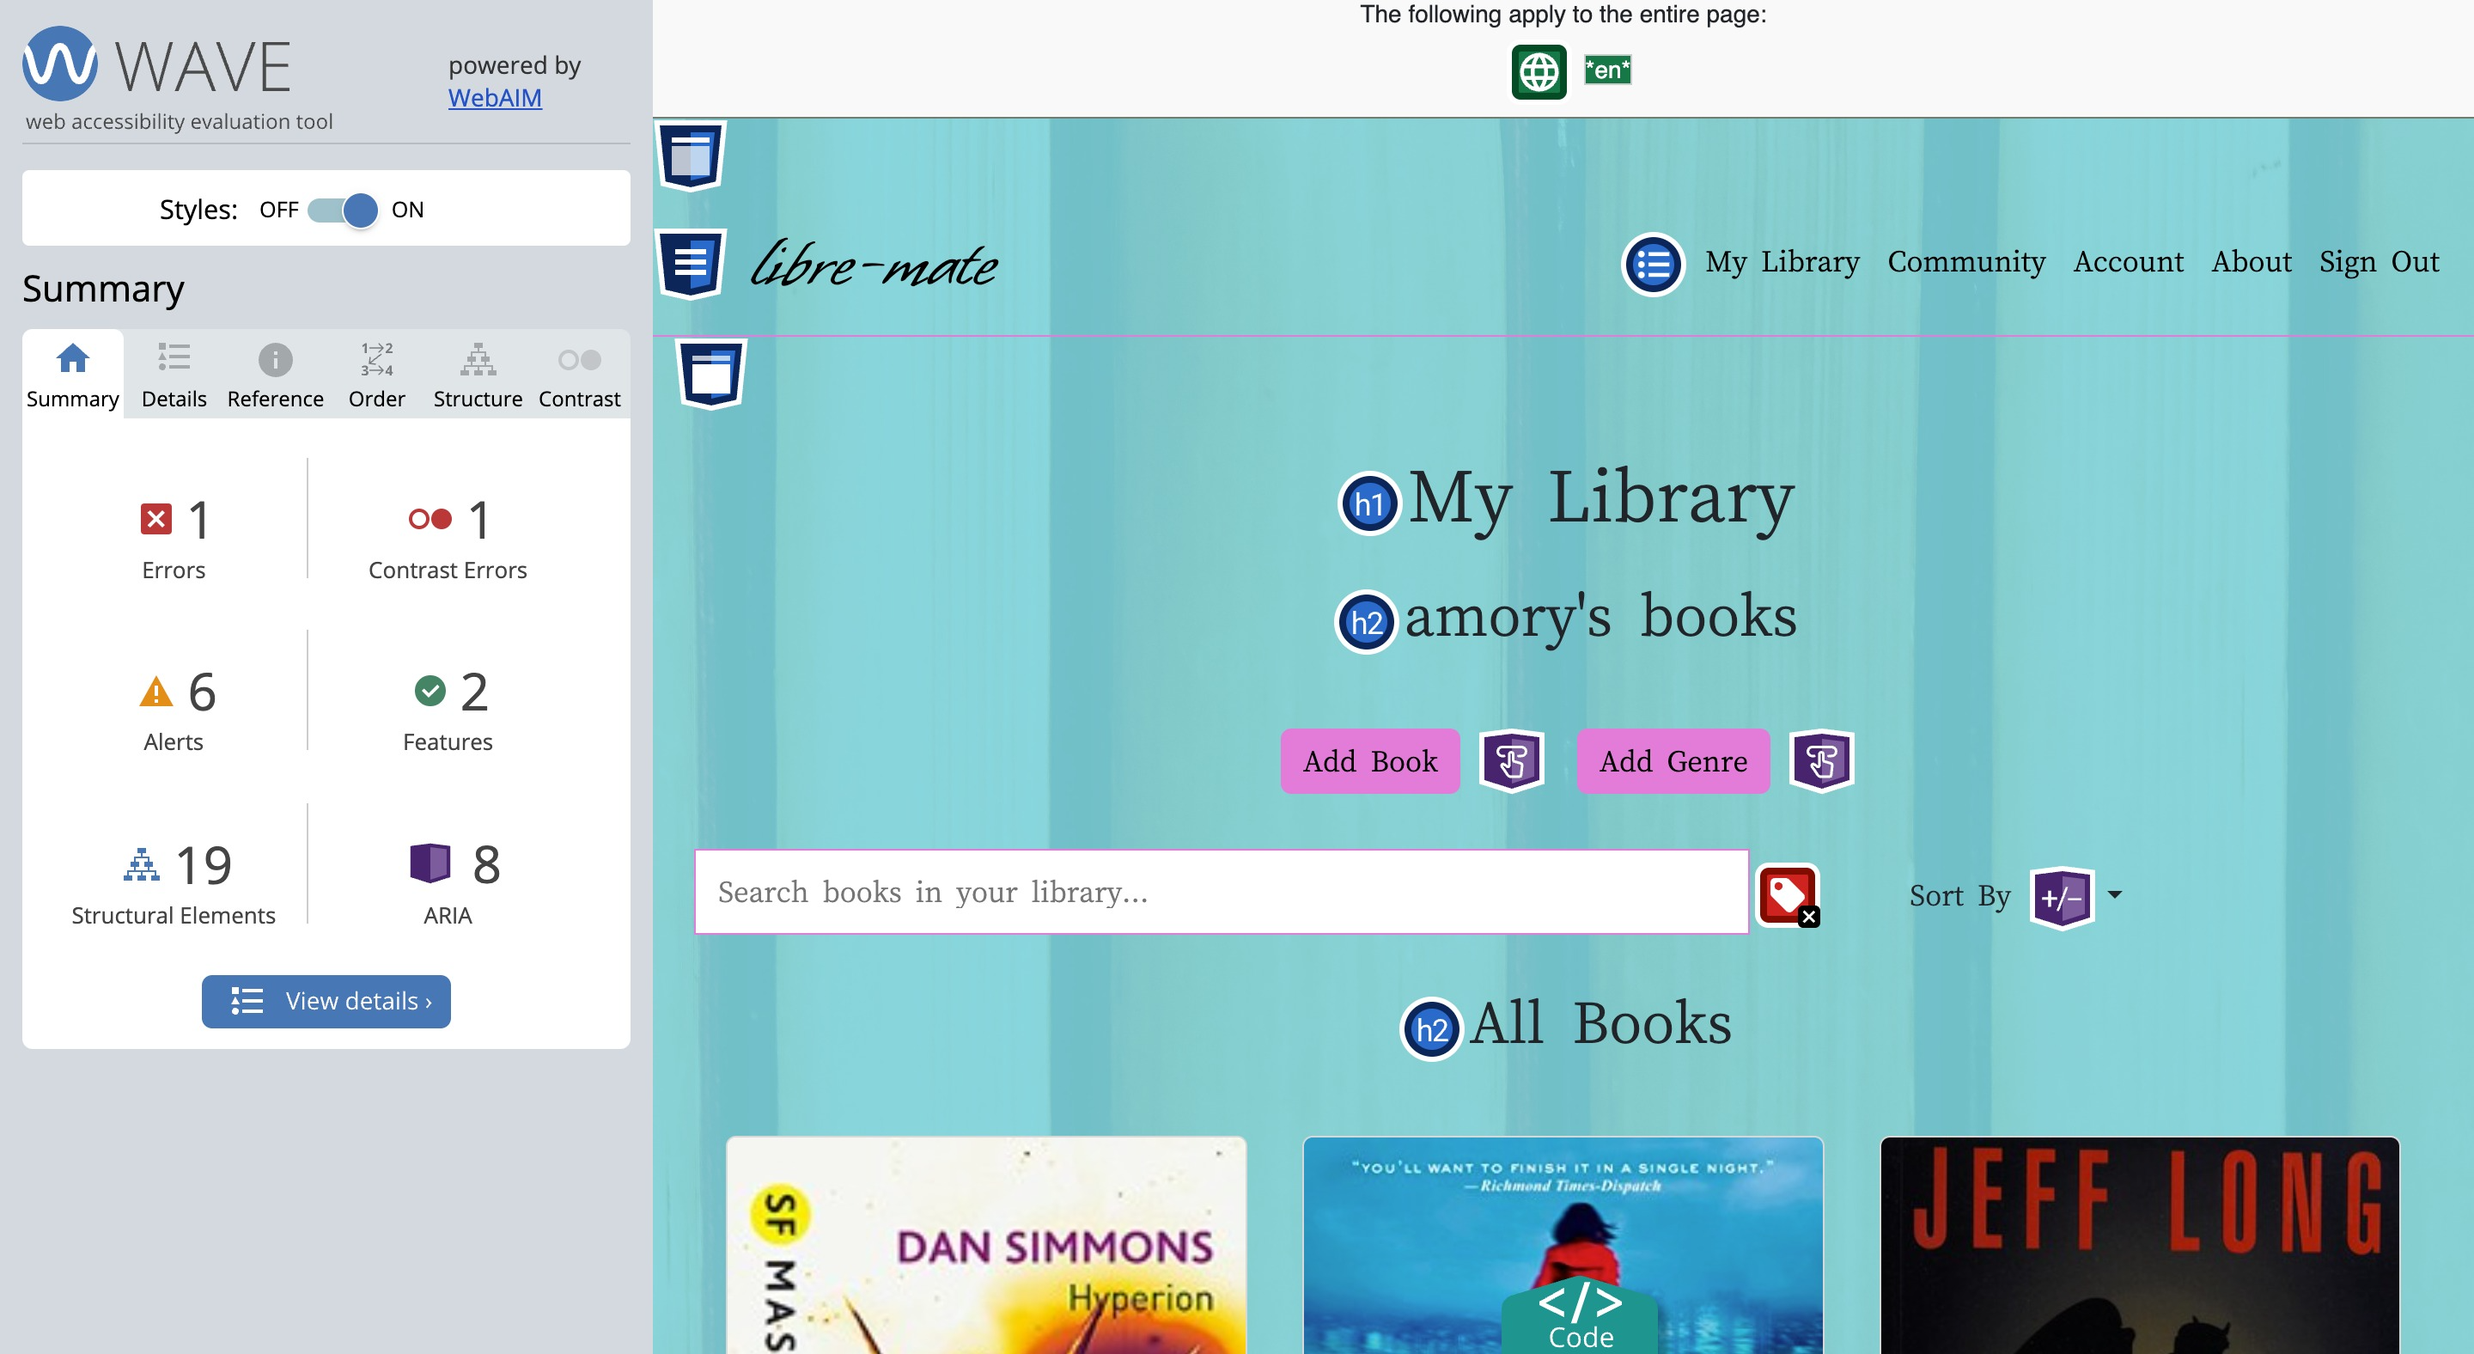
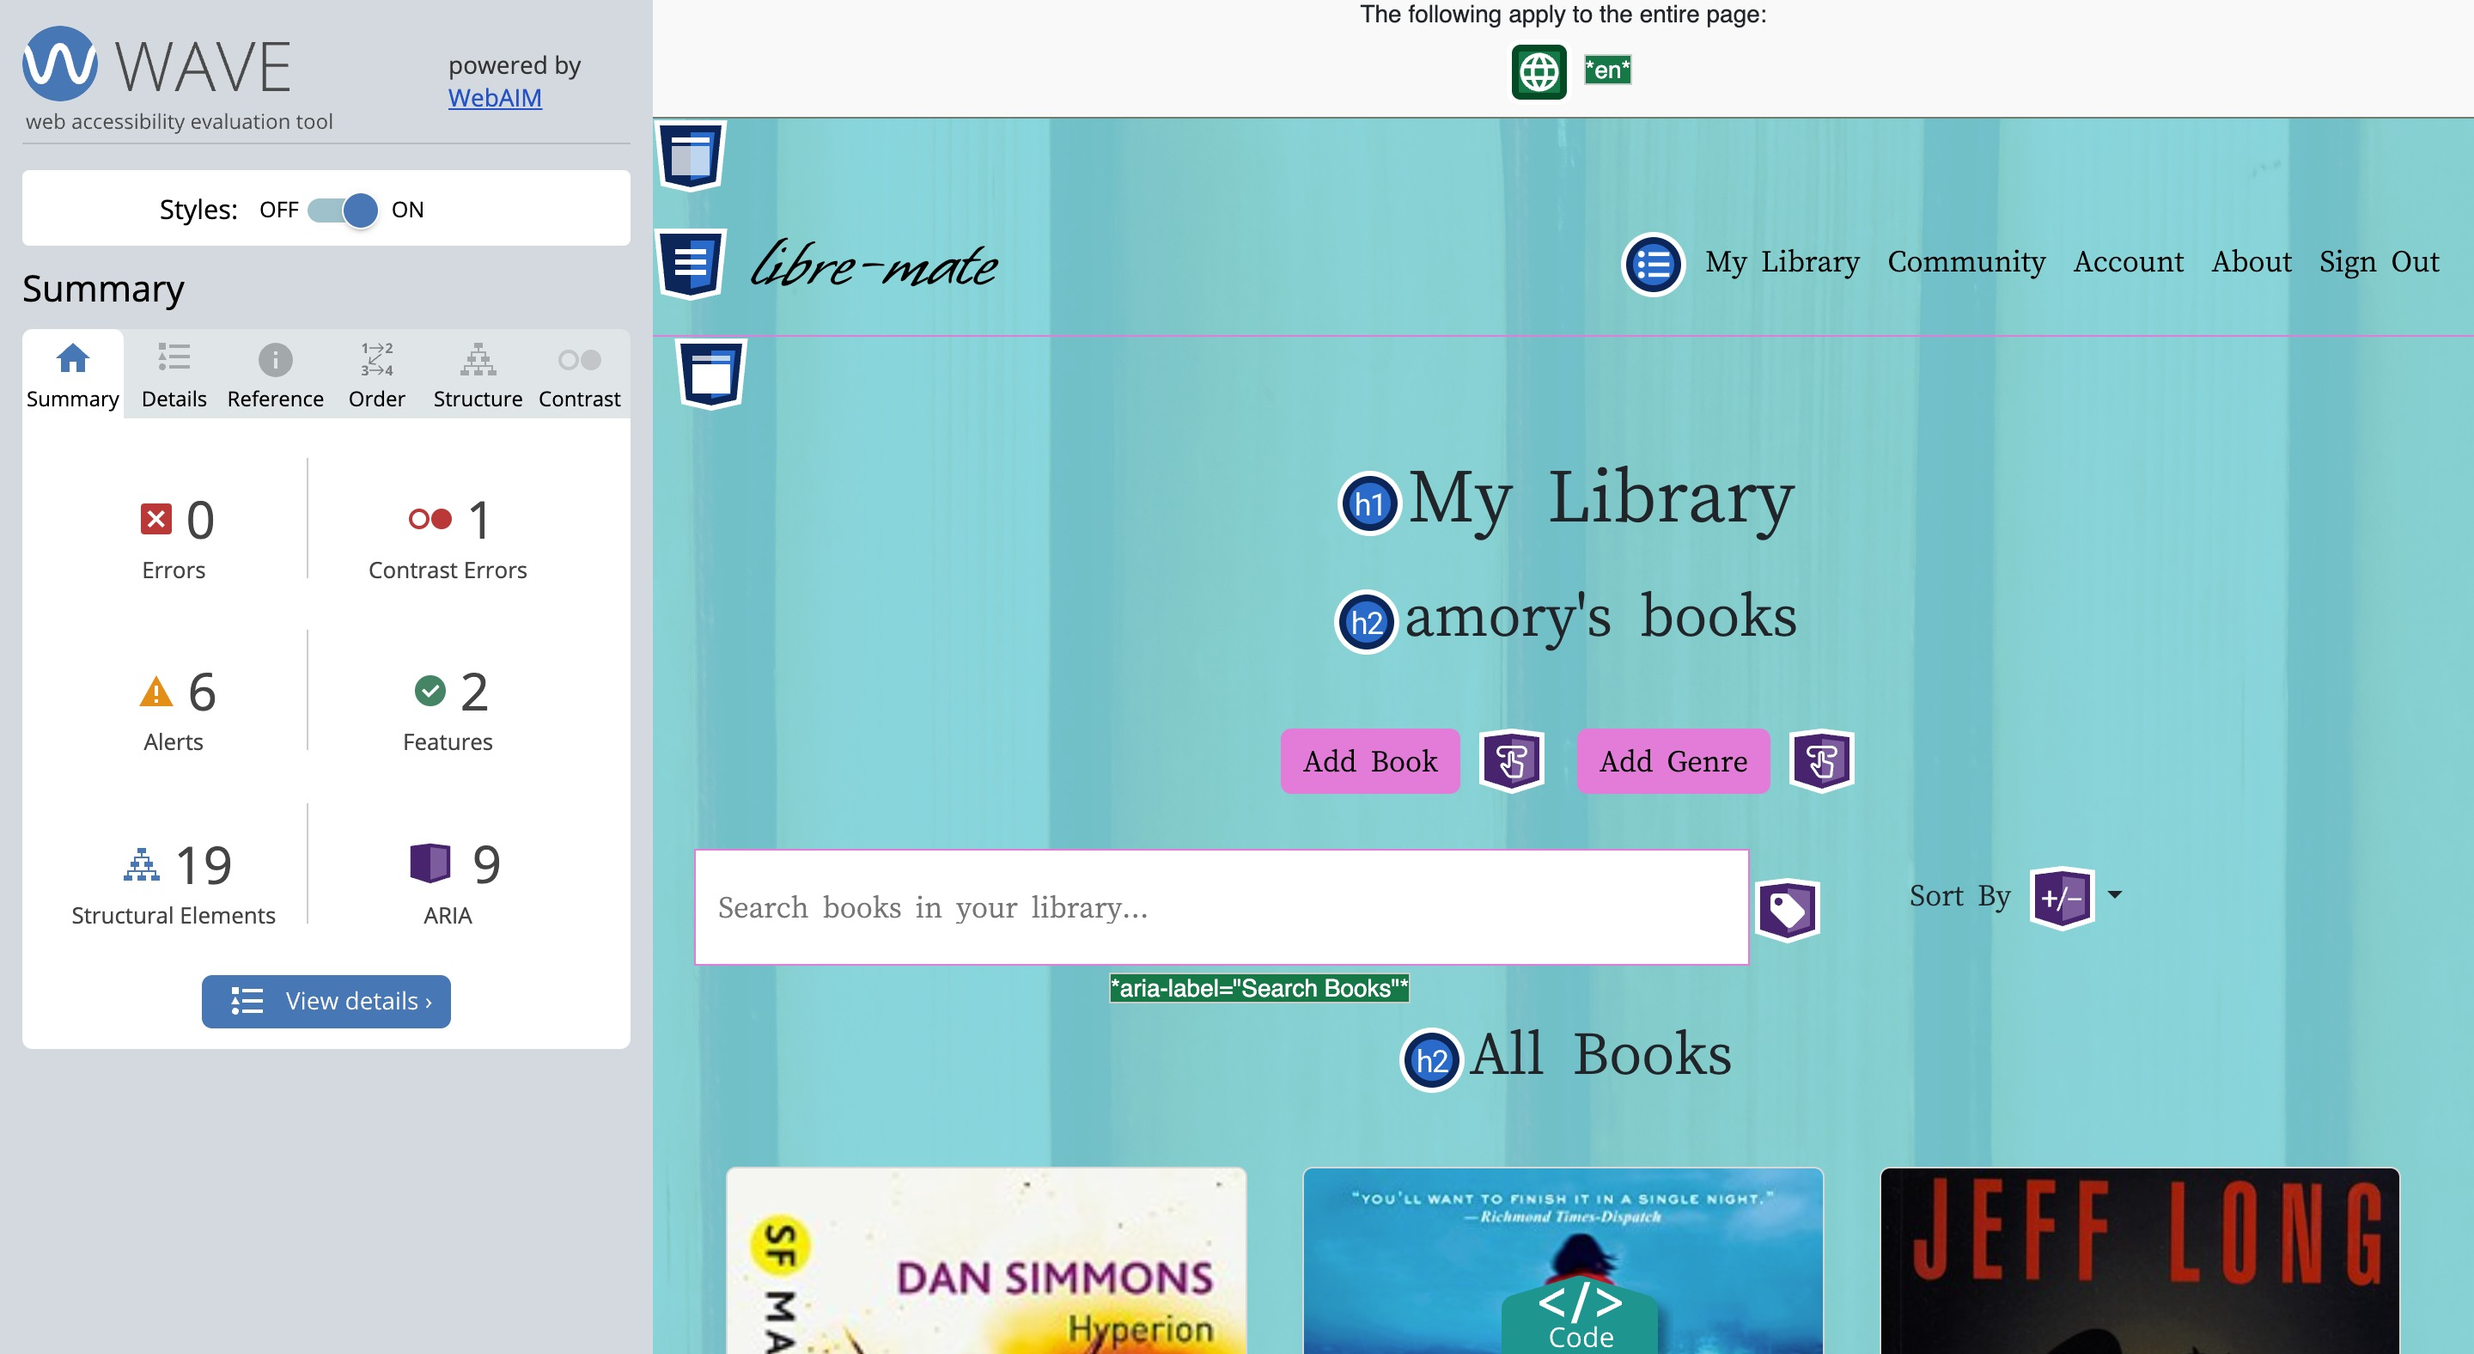
chore: convert jpg to webp for custom book cover image'

diff --git a/libremate/templates/my_library.html b/libremate/templates/my_library.html
@@ -26,7 +26,8 @@
         <li><a class="dropdown-item" href="{{ url_for('library.my_library_sort', sort='author_name') }}">Author</a></li>
         <li><a class="dropdown-item" href="{{ url_for('library.my_library_sort', sort='book_genre') }}">Genre</a></li>
         <li><a class="dropdown-item" href="{{ url_for('library.my_library_sort', sort='status') }}">Status</a></li>
-        <li><a class="dropdown-item" href="{{ url_for('library.my_library_sort', sort='created_on') }}">Date Created</a></li>
+        <li><a class="dropdown-item" href="{{ url_for('library.my_library_sort', sort='created_on') }}">Date Created</a>
+        </li>
       </ul>
     </div>
   </div>
@@ -39,25 +40,25 @@
   <div class="row justify-content-center center g-0">
     <h3 class="my-4">{{ genre.genre_name.title() }}</h3>
     {% for book in books %}
-      {% if book.book_genre == genre.id %}
-        <div class="card col-12 col-md-6 col-lg-4 m-3">
-          {% if book.isbn and book.isbn != '0' %}
-            <img src="https://covers.openlibrary.org/b/isbn/{{ book.isbn }}-L.jpg" class="card-img-top" alt="Book cover">
-          {% else %}
-            <img src="{{ url_for('static', filename='images/cover.jpg') }}" class="card-img-top" alt="Book cover">
-            <p class="cover-title center">{{book.book_title}}</p>
-          {% endif %}
-          <div class="card-body center">
-            <h5 class="card-title">{{ book.book_title }}
-            {% if book.favourite == True %}
-              <i class="fa-solid fa-star favourite"></i>
-            {% endif %}
-            </h5>
-            <h6 class="card-subtitle">{{ book.author_name }}</h6>
-            <a href="{{ url_for('library.view_book', id=book.id) }}" class="stretched-link">View Book</a>
-          </div>
-        </div>
+    {% if book.book_genre == genre.id %}
+    <div class="card col-12 col-md-6 col-lg-4 m-3">
+      {% if book.isbn and book.isbn != '0' %}
+      <img src="https://covers.openlibrary.org/b/isbn/{{ book.isbn }}-L.jpg" class="card-img-top" alt="Book cover">
+      {% else %}
+      <img src="{{ url_for('static', filename='images/cover.webp') }}" class="card-img-top" alt="Book cover">
+      <p class="cover-title center">{{book.book_title}}</p>
       {% endif %}
+      <div class="card-body center">
+        <h5 class="card-title">{{ book.book_title }}
+          {% if book.favourite == True %}
+          <i class="fa-solid fa-star favourite"></i>
+          {% endif %}
+        </h5>
+        <h6 class="card-subtitle">{{ book.author_name }}</h6>
+        <a href="{{ url_for('library.view_book', id=book.id) }}" class="stretched-link">View Book</a>
+      </div>
+    </div>
+    {% endif %}
     {% endfor %}
   </div>
   {% endfor %}
@@ -66,30 +67,30 @@
 {% elif sort == "status" %}
 <div class="container">
   {% for status in statuses %}
-    <div class="row justify-content-center center g-0">
-      <h3 class="my-4">{{ status.capitalize() }}</h3>
-      {% for book in books %}
-        {% if book.status == status %}
-          <div class="card col-12 col-md-6 col-lg-4 m-3">
-            {% if book.isbn and book.isbn != '0' %}
-              <img src="https://covers.openlibrary.org/b/isbn/{{ book.isbn }}-L.jpg" class="card-img-top" alt="Book cover">
-            {% else %}
-              <img src="{{ url_for('static', filename='images/cover.jpg') }}" class="card-img-top" alt="Book cover">
-              <p class="cover-title center">{{book.book_title}}</p>
-            {% endif %}
-            <div class="card-body center">
-              <h5 class="card-title">{{ book.book_title }}
-                {% if book.favourite == True %}
-                  <i class="fa-solid fa-star favourite"></i>
-                {% endif %}
-              </h5>
-              <h6 class="card-subtitle">{{ book.author_name }}</h6>
-              <a href="{{ url_for('library.view_book', id=book.id) }}" class="stretched-link">View Book</a>
-            </div>
-          </div>
-        {% endif %}
-      {% endfor %}
+  <div class="row justify-content-center center g-0">
+    <h3 class="my-4">{{ status.capitalize() }}</h3>
+    {% for book in books %}
+    {% if book.status == status %}
+    <div class="card col-12 col-md-6 col-lg-4 m-3">
+      {% if book.isbn and book.isbn != '0' %}
+      <img src="https://covers.openlibrary.org/b/isbn/{{ book.isbn }}-L.jpg" class="card-img-top" alt="Book cover">
+      {% else %}
+      <img src="{{ url_for('static', filename='images/cover.webp') }}" class="card-img-top" alt="Book cover">
+      <p class="cover-title center">{{book.book_title}}</p>
+      {% endif %}
+      <div class="card-body center">
+        <h5 class="card-title">{{ book.book_title }}
+          {% if book.favourite == True %}
+          <i class="fa-solid fa-star favourite"></i>
+          {% endif %}
+        </h5>
+        <h6 class="card-subtitle">{{ book.author_name }}</h6>
+        <a href="{{ url_for('library.view_book', id=book.id) }}" class="stretched-link">View Book</a>
+      </div>
     </div>
+    {% endif %}
+    {% endfor %}
+  </div>
   {% endfor %}
 </div>
 
@@ -99,23 +100,23 @@
 <div class="container">
   <div class="row justify-content-center g-0">
     {% for book in books %}
-      <div class="card col-12 col-md-6 col-lg-4 m-3">
-        {% if book.isbn and book.isbn != '0' %}
-         <img src="https://covers.openlibrary.org/b/isbn/{{ book.isbn }}-L.jpg" class="card-img-top" alt="Book cover">
-        {% else %}
-         <img src="{{ url_for('static', filename='images/cover.jpg') }}" class="card-img-top" alt="Book cover">
-         <p class="cover-title center">{{book.book_title}}</p>
-        {% endif %}
-        <div class="card-body center">
-          <h5 class="card-title">{{ book.book_title }}
-            {% if book.favourite == True %}
-              <i class="fa-solid fa-star favourite"></i>
-            {% endif %}
-          </h5>
-          <h6 class="card-subtitle">{{ book.author_name }}</h6>
-          <a href="{{ url_for('library.view_book', id=book.id) }}" class="stretched-link">View Book</a>
-        </div>
+    <div class="card col-12 col-md-6 col-lg-4 m-3">
+      {% if book.isbn and book.isbn != '0' %}
+      <img src="https://covers.openlibrary.org/b/isbn/{{ book.isbn }}-L.jpg" class="card-img-top" alt="Book cover">
+      {% else %}
+      <img src="{{ url_for('static', filename='images/cover.webp') }}" class="card-img-top" alt="Book cover">
+      <p class="cover-title center">{{book.book_title}}</p>
+      {% endif %}
+      <div class="card-body center">
+        <h5 class="card-title">{{ book.book_title }}
+          {% if book.favourite == True %}
+          <i class="fa-solid fa-star favourite"></i>
+          {% endif %}
+        </h5>
+        <h6 class="card-subtitle">{{ book.author_name }}</h6>
+        <a href="{{ url_for('library.view_book', id=book.id) }}" class="stretched-link">View Book</a>
       </div>
+    </div>
     {% endfor %}
   </div>
 </div>

diff --git a/libremate/templates/community.html b/libremate/templates/community.html
@@ -5,33 +5,33 @@
 
 <div class="container">
   {% for book in books %}
-    <div class="row outline">
-      <div class="col-sm-12 col-md-6 single-book p-1 my-md-3">
-        {% if book.isbn and book.isbn != '0'%}
-          <img src="https://covers.openlibrary.org/b/isbn/{{ book.isbn }}-L.jpg" alt="Book cover">
-        {% else %}
-        <img src="{{ url_for('static', filename='images/cover.jpg') }}" alt="Book cover">
-        <p class="cover-title center">{{book.book_title}}</p>
-        {% endif %}
-        <br>
-        <a href="https://www.amazon.co.uk/s?k={{ book.book_title }}+{{ book.author_name.replace(' ', '+') }}&i=digital-text&tag=fakereferral"
-          target="_blank" class="btn kindle" role="button">Search on Kindle</a>
-        <a href="https://www.kobo.com/gb/en/search?query={{ book.book_title.replace(' ', '+') }}+{{ book.author_name }}&tag=fakereferral"
-          target="_blank" class="btn kobo" role="button">Search on Kobo</a>
-      </div>
-      <div class="col-sm-12 col-md-6 my-4 mt-md-5">
-        <h2>{{ book.book_title }}
-          {% if book.favourite == True %}
-          <i class="fa-solid fa-star favourite"></i>
-          {% endif %}
-        </h2>
-        <h3>{{ book.author_name }}</h3><br>
-        <h4>Bookshelf: {{ book.book_owner }}</h4><br>
-        <h4>Status: {{ book.status.capitalize() }}</h4><br>
-        <h4>Review</h4>
-        <p>{{ book.review }}</p>
-      </div>
+  <div class="row outline">
+    <div class="col-sm-12 col-md-6 single-book p-1 my-md-3">
+      {% if book.isbn and book.isbn != '0'%}
+      <img src="https://covers.openlibrary.org/b/isbn/{{ book.isbn }}-L.jpg" alt="Book cover">
+      {% else %}
+      <img src="{{ url_for('static', filename='images/cover.webp') }}" alt="Book cover">
+      <p class="cover-title center">{{book.book_title}}</p>
+      {% endif %}
+      <br>
+      <a href="https://www.amazon.co.uk/s?k={{ book.book_title }}+{{ book.author_name.replace(' ', '+') }}&i=digital-text&tag=fakereferral"
+        target="_blank" class="btn kindle" role="button">Search on Kindle</a>
+      <a href="https://www.kobo.com/gb/en/search?query={{ book.book_title.replace(' ', '+') }}+{{ book.author_name }}&tag=fakereferral"
+        target="_blank" class="btn kobo" role="button">Search on Kobo</a>
     </div>
+    <div class="col-sm-12 col-md-6 my-4 mt-md-5">
+      <h2>{{ book.book_title }}
+        {% if book.favourite == True %}
+        <i class="fa-solid fa-star favourite"></i>
+        {% endif %}
+      </h2>
+      <h3>{{ book.author_name }}</h3><br>
+      <h4>Bookshelf: {{ book.book_owner }}</h4><br>
+      <h4>Status: {{ book.status.capitalize() }}</h4><br>
+      <h4>Review</h4>
+      <p>{{ book.review }}</p>
+    </div>
+  </div>
   {% endfor %}
 </div>
 
@@ -52,7 +52,8 @@
           {% if session['page'] == (x+1) %}
           <li class="page-item"><a class="page-link disabled" href="#">{{ x + 1}}</a></li>
           {% else %}
-          <li class="page-item"><a class="page-link" href="{{ url_for('shared.community', page=(x + 1)) }}">{{ x + 1}}</a></li>
+          <li class="page-item"><a class="page-link" href="{{ url_for('shared.community', page=(x + 1)) }}">{{ x +
+              1}}</a></li>
           {% endif %}
           {% endfor %}
           {% if session['page'] == page_numbers %}

diff --git a/libremate/templates/view_book.html b/libremate/templates/view_book.html
@@ -12,7 +12,8 @@
   <div class="row">
     <div class="col center m-4">
       <h2 class="p-2">Private Access Only</h2>
-      <p class="p-2">This user's bookshelf is private, for their eyes only. Turn back now, lest you wander forever, lost in the labyrinth of secret shelves...</p>
+      <p class="p-2">This user's bookshelf is private, for their eyes only. Turn back now, lest you wander forever, lost
+        in the labyrinth of secret shelves...</p>
       <a href="{{ url_for('shared.community', page=1) }}" class="btn accent">Community Books</a>
     </div>
   </div>
@@ -24,16 +25,16 @@
   <div class="row mt-3 mt-md-5">
     <div class="col-sm-12 col-md-6 my-md-5 single-book">
       {% if book.isbn and book.isbn != '0' %}
-        <img src="https://covers.openlibrary.org/b/isbn/{{ book.isbn }}-L.jpg" alt="Book cover">
+      <img src="https://covers.openlibrary.org/b/isbn/{{ book.isbn }}-L.jpg" alt="Book cover">
       {% else %}
-        <img src="{{ url_for('static', filename='images/cover.jpg') }}" alt="Book cover">
-        <p class="cover-title center">{{book.book_title}}</p>
+      <img src="{{ url_for('static', filename='images/cover.webp') }}" alt="Book cover">
+      <p class="cover-title center">{{book.book_title}}</p>
       {% endif %}
     </div>
     <div class="col-sm-12 col-md-6 my-5">
       <h2>{{ book.book_title }}
         {% if book.favourite == True %}
-          <i class="fa-solid fa-star favourite"></i>
+        <i class="fa-solid fa-star favourite"></i>
         {% endif %}
       </h2>
       <h3>{{ book.author_name }}</h3><br>
@@ -48,7 +49,8 @@
   {% if book.book_owner == session['user'] %}
   <div class="row mt-md-5">
     <div class="col center">
-      <a href="{{ url_for('update.edit_book', book_id=book.id) }}" class="btn btn-success m-2" role="button">Edit Book</a>
+      <a href="{{ url_for('update.edit_book', book_id=book.id) }}" class="btn btn-success m-2" role="button">Edit
+        Book</a>
       <button class="btn btn-danger m-2" data-bs-toggle="modal" data-bs-target="#delete-book">Delete Book</button>
     </div>
   </div>
@@ -66,11 +68,13 @@
         <button type="button" class="btn-close" data-bs-dismiss="modal" aria-label="Close"></button>
       </div>
       <div class="modal-body">
-        <p>This action is irreversible. If you delete the entry for this book, you will not be able to recover the data.</p>
+        <p>This action is irreversible. If you delete the entry for this book, you will not be able to recover the data.
+        </p>
       </div>
       <div class="modal-footer">
         <button type="button" class="btn btn-secondary" data-bs-dismiss="modal">Close</button>
-        <a href="{{ url_for('delete.delete_book', book_id=book.id) }}" class="btn btn-danger m-2" role="button">Delete Book</a>
+        <a href="{{ url_for('delete.delete_book', book_id=book.id) }}" class="btn btn-danger m-2" role="button">Delete
+          Book</a>
       </div>
     </div>
   </div>

diff --git a/README.md b/README.md
@@ -459,7 +459,7 @@ edit_book.html - No errors listed
 
 ![my_library.html](docs/accessibility/my-library-accessibility.png)
 
-my_library.html - One error listed for the search box input element not having a form label. As this is not part of an input form, and uses placeholder text instead to instruct the user of its purpose, I have instead used an aria-label attribute for better accessibility
+my_library.html - No errors listed
 
 
 ![register.html](docs/accessibility/register-accessibility.png)
@@ -477,7 +477,19 @@ sign_in.html - No errors listed
 view_book.html - No errors listed
 
 
+[!404.html](docs/accessibility/404-accessibility.png)
+
+404.html - No errors listed
+
+
+
 ### Performance
+
+Performance testing by Google Lighthouse in Google Chrome Developer Tools
+
+about.html
+
+[!about.html]
 
 ### Compatibility
 
